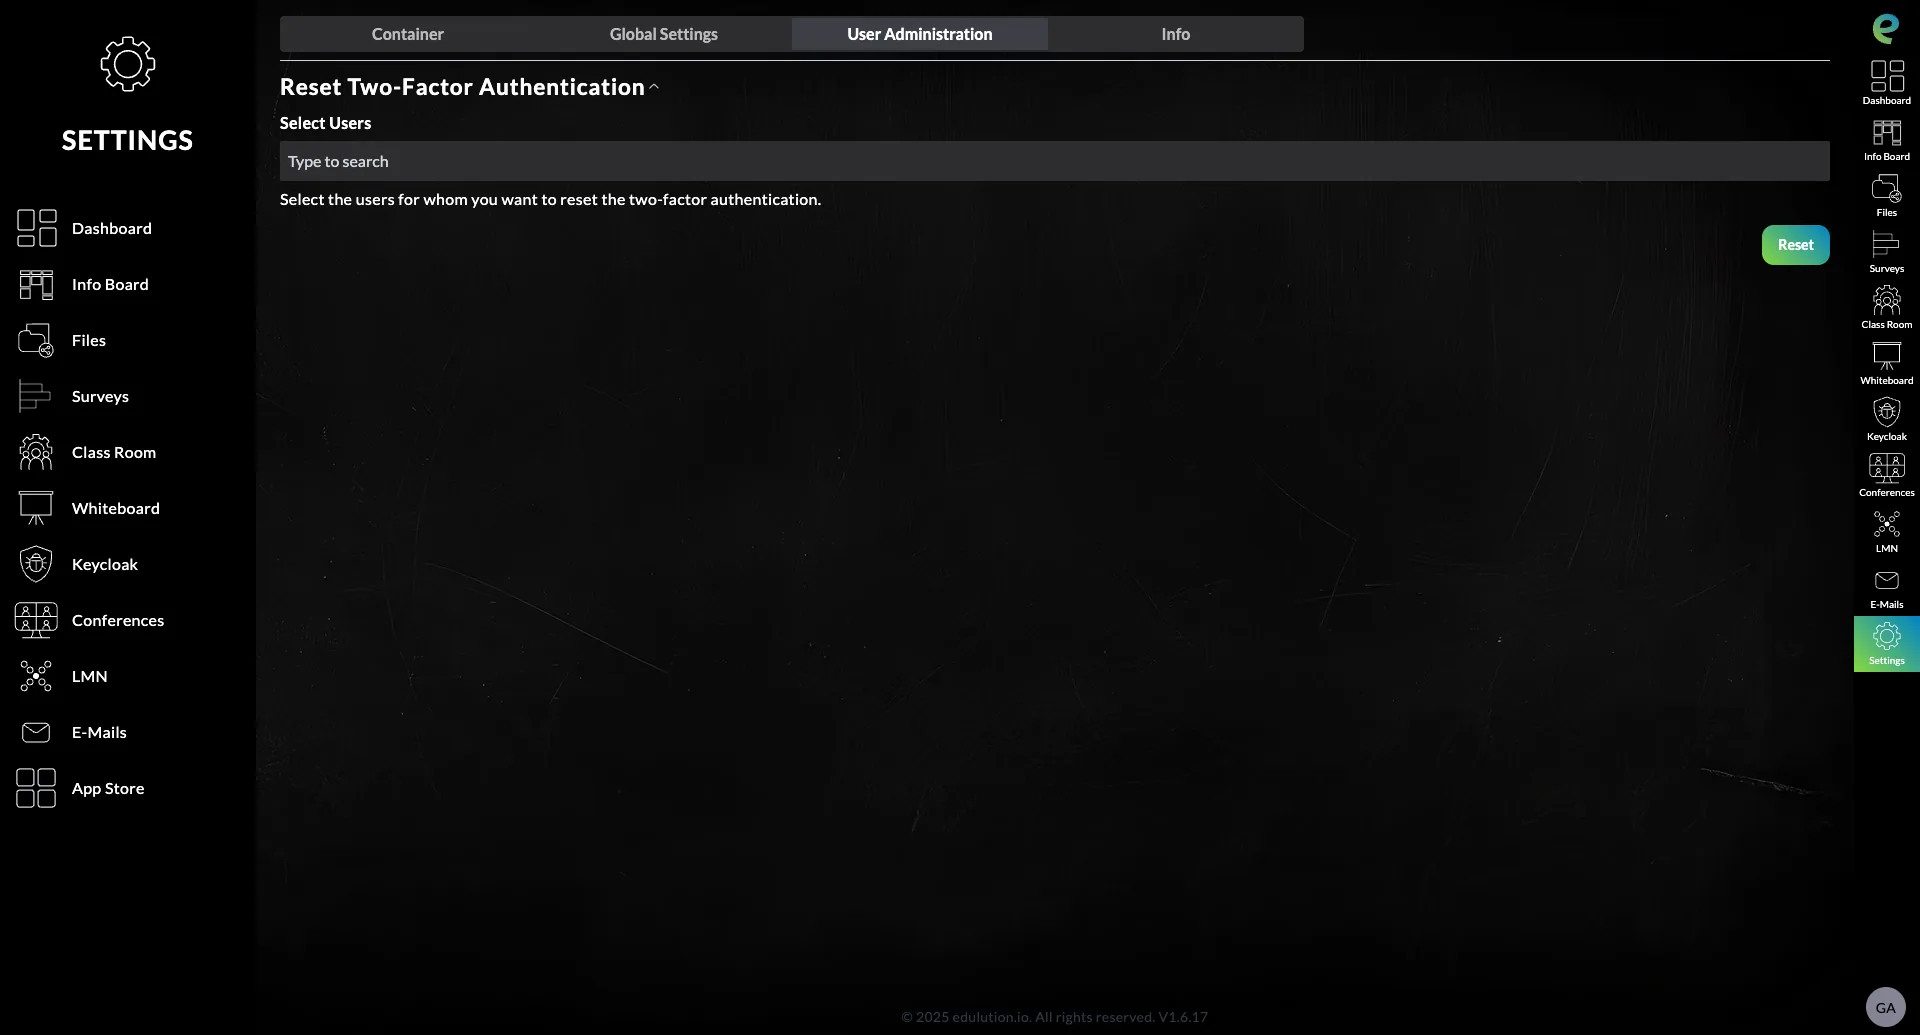
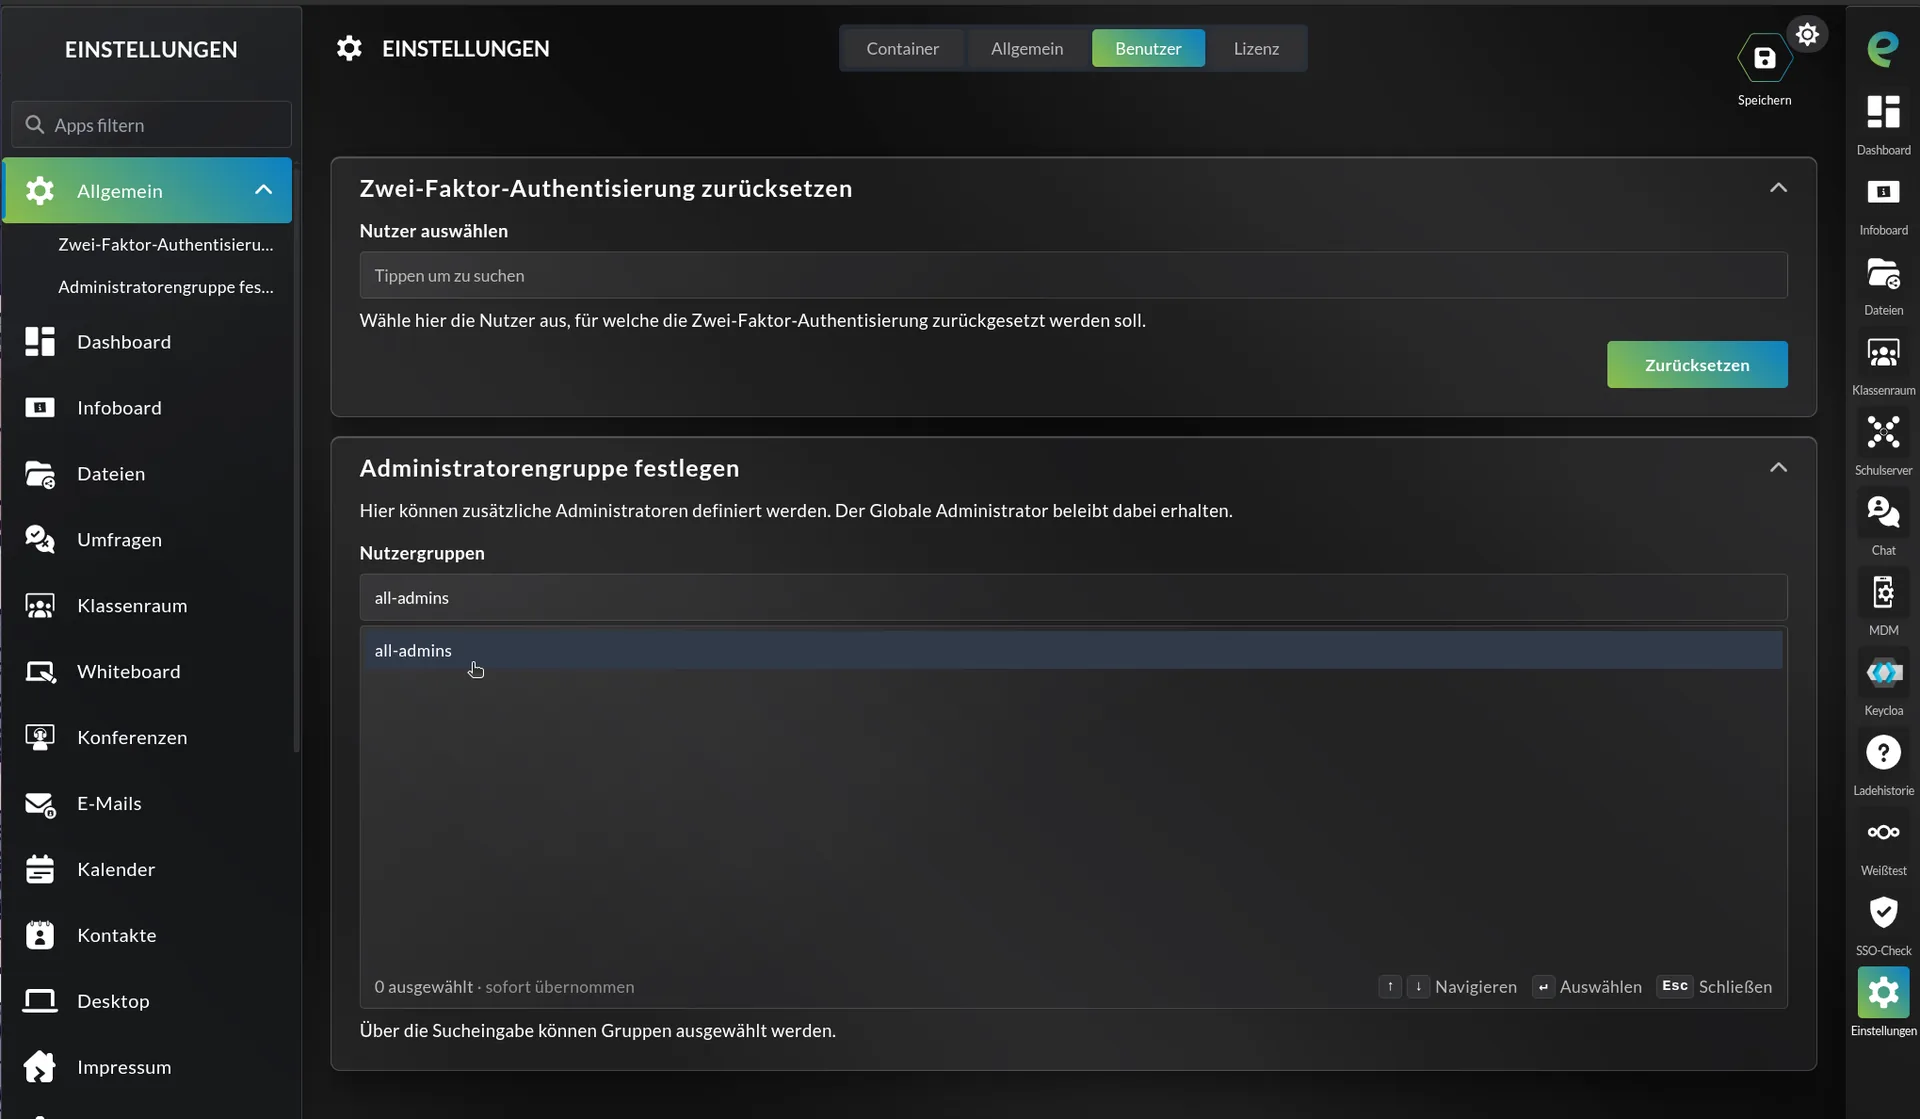
Replace the Benutzerverwaltung screenshot
The old screenshot predates the admin group section and showed the 2FA reset
alone. The new one shows both sections with the group selection open, which
is what the text below it describes.

Name the tab and the field as they appear there, and correct the save button
location and how a selected group is removed.

diff --git a/docs/edulution-plattform/konfiguration/einstellungen.md b/docs/edulution-plattform/konfiguration/einstellungen.md
@@ -472,10 +472,10 @@ Hier legen Sie fest, welche LDAP-Gruppen in edulution als **Administratoren** ge
 
 **Gruppe hinzufügen oder entfernen**
 
-1. Öffnen Sie **Einstellungen → Benutzerverwaltung → Administratorengruppe festlegen**.
-2. Tippen Sie den Gruppennamen in das Suchfeld; die Auswahl schlägt passende LDAP-Gruppen vor.
-3. Wählen Sie die Gruppe aus. Über das **x** an einem Eintrag nehmen Sie eine Gruppe wieder heraus.
-4. Speichern Sie über **Speichern**.
+1. Öffnen Sie **Einstellungen → Benutzer** und dort den Bereich **Administratorengruppe festlegen**.
+2. Tippen Sie den Gruppennamen in das Feld **Nutzergruppen**; die Auswahl schlägt passende LDAP-Gruppen vor.
+3. Wählen Sie die Gruppe aus. Ein erneuter Klick auf einen ausgewählten Eintrag nimmt ihn wieder heraus.
+4. Speichern Sie oben rechts über **Speichern**.
 
 Eine Gruppe muss immer ausgewählt bleiben; andernfalls lehnt edulution das Speichern mit *„Es muss mindestens eine Administratorengruppe ausgewählt sein."* ab. Voreingestellt ist die Gruppe, die Sie bei der Installation angegeben haben.
 
